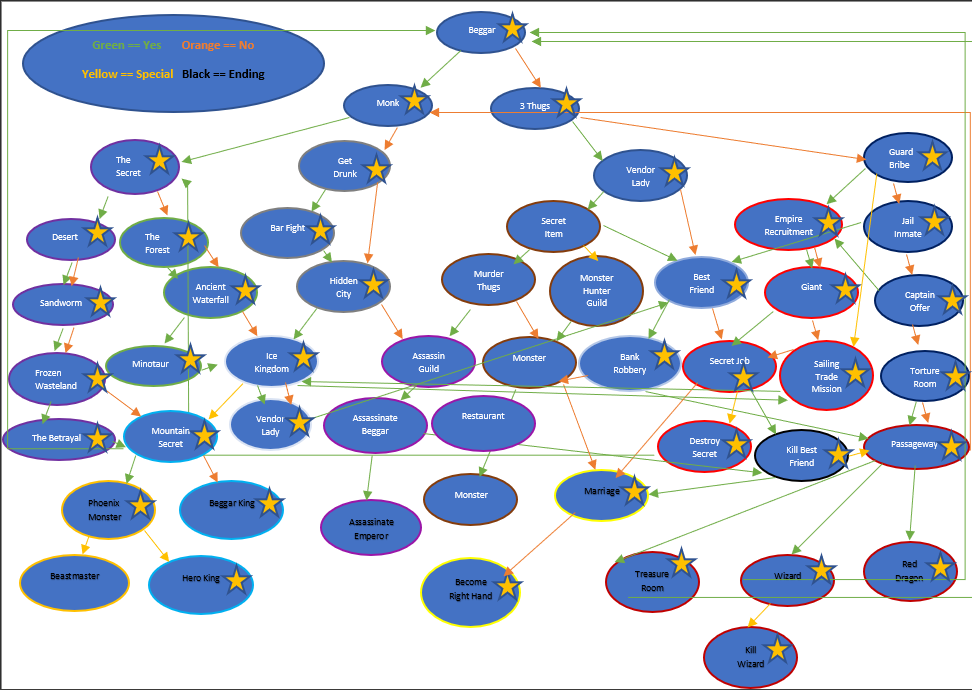
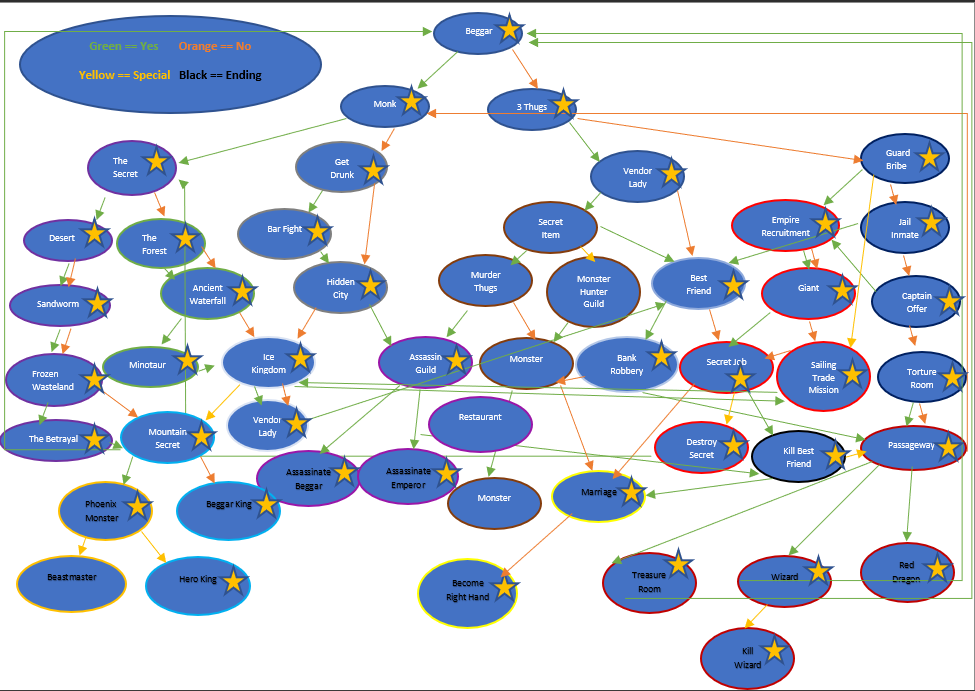
Added assassination storylines. 2 new endings.

Changed region(s): [[0.0, 0.0, 1.0, 1.0], [0.8333, 0.7304, 0.8642, 0.7609], [0.7407, 0.7304, 0.7716, 0.7609]]

diff --git a/main.py b/main.py
@@ -111,6 +111,8 @@ def adventure_game():
         leviathan = Monster('Leviathan', 999, 99, 200)
         phoenix = Monster('Phoenix', 350, 90, 200)
         minotaur = Monster('Minotaur', 150, 50, 85)
+        beggar = Monster('The Beggar', 50, 10, 20)
+        emperor = Monster('The Emperor', 50, 10, 30)
         
         # Function that 1. Checks if the monster has died, 2. Checks if person has died and then restarts/exits game
         def check_health(person):
@@ -492,13 +494,13 @@ jgs .-=-.    ) -.
 
                 # Check for a Royal Flush
                 if all(count == 1 for count in counts.values()):
-                    if hand[0][0] == '10' and hand[-1][0] == 'A':
+                    if 'A' in counts and 'K' in counts and 'Q' in counts and 'J' in counts and '10' in counts:
                         if all(card[1] == hand[0][1] for card in hand):
                             return 'Royal Flush'
 
                 # Check for a Straight Flush
                 if all(count == 1 for count in counts.values()):
-                    for i in range(1, len(hand)):
+                    for i in range(1, 5):
                         if int(hand[i][0]) - int(hand[i - 1][0]) != 1:
                             break
                         else:
@@ -698,7 +700,8 @@ jgs .-=-.    ) -.
                         # Check if the player has busted (total > 21)
                         if player_total > 21:
                             # If so, end the game and print a message
-                                print("Player has busted! Dealer wins.")
+                            print("Player has busted! Dealer wins.")
+                            break
                     # If the player decided to stand, break out of the loop
                     else:
                         break
@@ -816,16 +819,104 @@ jgs .-=-.    ) -.
                         f'{bulletpoint2}The number you entered is not a valid item in the vendor\'s inventory. Please try again.')
                     show_vendor_menu()
 
+            # The Assassin Guild
+            def assassins_guild():
+                drink_water_ans = input(f'{bulletpoint}As the old man shows you around the City of the Rising Sun, you are struck by the peaceful and serene atmosphere of the city. People from all walks of life can be seen going about their business, and there is a sense of harmony and cooperation among the various different groups.\nThe old man leads you through the winding streets of the city, pointing out the various landmarks and places of interest. He shows you the central market, where merchants from all over the world come to trade their goods. You also visit the city\'s library, which is filled with ancient books and scrolls that contain knowledge and wisdom from the past.\nAs you continue your tour, the old man brings you to the city\'s main square, where a large fountain stands in the center. People are gathered around the fountain, enjoying the cool, refreshing water on a hot day. The old man tells you that the water of the fountain has healing properties, and many people come to drink from it to cure their ailments.\nDo you take a drink of this water?')
+                if drink_water_ans.strip().lower() in yes:
+                    input(f'{bulletpoint}You were healed for 50 health points!')
+                    hero.health += 50
+                    menu()
+                enter_assassin_guild = input(f'{bulletpoint}After exploring the city for a while, the old man leads you to a secluded part of the city, where a mysterious sign stands in front of a hidden door. The sign bears the emblem of a hooded figure holding a curved blade. The old man tells you that this is the entrance to the Assassin Guild, a secretive organization of skilled assassins who serve as protectors.\nYou thank the old man for showing you around the city, and he tells you that he will be waiting for you if you ever need anything. You stand in front of the mysterious sign, considering whether or not you should enter the Assassin Guild and see what secrets it holds. The choice is yours, do you enter the building?\n')
+                if enter_assassin_guild.strip().lower() in yes:
+                    input(f'{bulletpoint2}Inside, you are greeted by a group of hooded figures who introduce themselves as members of the assassin guild. They explain that they are a secret society of trained assassins who use their skills and knowledge to serve the greater good.\nThe guild members offer to train you in the ancient ways of assassination, and you are intrigued by the offer. You decide to accept their offer and become a member of the guild.\n')
+                    input(f'...')
+                    philosophy_ans = input(f'{bulletpoint2}You spend the next few weeks training with the guild, learning the art of stealth, deception, and assassination. You undergo rigorous physical and mental training, and you master the use of a variety of weapons and tools.\nAs you progress in your training, you are taught the secrets of the guild and the philosophy that guides its members. You learn to balance the need for justice with the harsh realities of the world, and you become a skilled and deadly assassin. Do you want to go over the philosophy of the Assassin guild?')
+                    if philosophy_ans.strip().lower() in yes:
+                        input(f'{bulletpoint2}\n\n\n\n\n\n\n\n\n\n\nThe philosophy of the assassin guild is based on the principle of balance. The guild members believe that the world is a complex and dangerous place, and that there is a constant struggle between good and evil, order and chaos.\nThey believe that the guild has a responsibility to maintain the balance of power and prevent any one side from gaining too much control. To achieve this, the guild members use their skills and knowledge to eliminate threats and protect the innocent.\nThe guild has a complicated relationship with the ice kingdom and the Red Dragon Empire. On the one hand, the guild is neutral and does not take sides in political conflicts. On the other hand, the guild members are not afraid to intervene if they believe that the balance of power is being threatened.\nIn the case of the ice kingdom, the guild has a positive relationship with the queen and her people. The queen values the guild\'s skills and knowledge, and she often hires the guild members to carry out important missions. In return, the guild members protect the ice kingdom and its people from threats and dangers.\nIn the case of the Red Dragon Empire, the guild has a more complicated relationship. The emperor and his followers view the guild as a threat and a nuisance, and they often try to suppress the guild\'s activities. However, the guild members are not afraid to challenge the empire and its corrupt rulers, and they will not hesitate to strike if the balance of power is threatened.')
+                    input(
+                        f'{bulletpoint2} You recall the poem they taught you:\n\nThe assassin guild is a secret sect\nOf skilled and deadly powers,\nTheir mission is to keep the check\nIn a world of chaos all hours.\n\nThey move through the shadows unseen,\nSilent and deadly as the night,\nReady to strike at a moment\'s bright\nAnd eliminate any threat in sight.\n\nThey are masters of the blade and the bow,\nTrained in the arts of stealth and deception,\nThey are feared by their enemies\nAnd respected by those who know their profession.\n\nThe guild is a force for right,\nA protector of the innocent and the weak,\nThey will continue to fight\nFor balance and justice in a world that seeks.\n\n')
+                    new_kill = input(
+                        f'{bulletpoint}At the end of your training, you are given a mission to complete. You are to assassinate a...\nPlease enter your assassination target: ')
+                    while new_kill.strip().lower() == hero.name.strip().lower():
+                        new_kill = input(
+                            f'{bulletpoint2}You cannot kill yourself...\n{bulletpoint}Please enter a new assassination target: ')
+                    if new_kill.strip().lower() in ('beggar', 'the beggar'):
+                        input(
+                            f'{bulletpoint2}You are to assassinate a beggar who has been terrorizing the people of the Red Dragon Empire. You accept the mission.')
+                        input(f'{bulletpoint2}You are initially puzzled by the mission. You cannot understand why the guild would want to kill a homeless beggar, who poses no threat to anyone. You decide to question the guild leader about the mission.\nThe guild leader explains that the beggar is not what he seems. He is actually a spy for the ice kingdom, who has been gathering information about the empire\'s defenses and plans. The guild has been hired by the empire to eliminate the spy and prevent him from passing on his information.\nYou are uneasy about the mission, but you trust the guild leader and you decide to carry it out. You disguise yourself as a beggar and approach the beggar outside the castle gates. You strike up a conversation and gain his trust.\nWhen the time is right, you strike the beggar with a hidden blade.\n\n{bulletpoint}Press enter to roll 1 to 10 to determine if the kill was clean...\n')
+                        clean_kill_beggar = random.randint(1, 10)
+                        print(f'{bulletpoint2}You rolled a {clean_kill_beggar}.')
+                        if clean_kill_beggar >= 5:
+                            input(
+                                f'{bulletpoint2}The kill was clean. You dispose of the body and return to the guild, reporting the mission as completed.')
+                        else:
+                            add_health(beggar)
+                            battle(hero, beggar, 'hides behind wall',
+                                'curses at you', 'picks up a stick', 'throws a rock at you')
+                            random_health_gain = random.randint(10, 30)
+                            print(
+                                f'{bulletpoint2} You took some rest and gained {random_health_gain} health back.')
+                            hero.health += random_health_gain
+                            check_health(hero)
+                            add_money(25, 50)
+                            input(
+                                f'{bulletpoint2}The kill was messy. You dispose of the body and return to the guild, reporting the mission as completed.')
+                        menu()
+                        input(
+                            f'\n{bulletpoint2}You go back to strolling along the streets and see a different beggar...\nCongratulations, on reaching the end! Try to discover other secret endings and possibilities...')
+                        beggar()
+                        if 'beggar' in current_heir:
+                            current_heir = 'noble lady'
+                    elif new_kill.strip().lower() in ('emperor', 'the emperor'):
+                        input(
+                            f'{bulletpoint2}You are to assassinate a corrupt and evil ruler who has been terrorizing the people of a neighboring kingdom. You accept the mission.')
+                        input(f'{bulletpoint2}As a member of the assassin guild, you are given a mission to carry out. You are to kill the Red Dragon Emperor, the tyrannical ruler of the empire.\nYou are hesitant about the mission. The emperor is a powerful and dangerous enemy, and killing him will not be easy. You decide to discuss the mission with the other guild members and seek their advice.\nAfter much debate and deliberation, you and the other guild members agree on a plan. You will infiltrate the emperor\'s palace and gain his trust by pretending to be a loyal servant. Once you are close to the emperor, you will strike and kill him with a hidden blade.\nYou carry out the plan with precision and stealth. You gain the emperor\'s trust and become one of his most trusted servants. You bide your time and wait for the right moment to strike.\nOne night, as the emperor is sleeping, you sneak into his chambers and approach his bed. You draw your hidden blade and raise it high, ready to strike.\n\n{bulletpoint}Press enter to roll 1 to 10 to determine if the kill was clean...\n')
+                        clean_kill_emperor = random.randint(1, 10)
+                        print(f'{bulletpoint2}You rolled a {clean_kill_emperor}.')
+                        print(f'')
+                        if clean_kill_emperor >= 5:
+                            input(
+                                f'{bulletpoint2}The kill was clean. You dispose of the body and return to the guild, reporting the mission as completed.')
+                        else:
+                            add_health(emperor)
+                            battle(hero, emperor, 'raises shield',
+                                'groans in pain', 'calls guards over', 'uses sharp end of the shield')
+                            random_health_gain = random.randint(10, 30)
+                            print(
+                                f'{bulletpoint2} You took some rest and gained {random_health_gain} health back.')
+                            hero.health += random_health_gain
+                            check_health(hero)
+                            add_money(25, 50)
+                            input(
+                                f'{bulletpoint2}The kill was messy. You dispose of the body and return to the guild, reporting the mission as completed.')
+                        menu()
+                        input(
+                            f'\n{bulletpoint2}Congratulations, on reaching the end! Try to discover other secret endings and possibilities...')
+                        beggar()
+                    else:
+                        input(
+                            f'{bulletpoint2}You are to assassinate {new_kill}. You accept the mission.')
+                        input(f'{bulletpoint2}The night was dark and cold, the perfect conditions for an assassination. You crept through the shadows, senses heightened and your heart pounding with anticipation.\nYour target was {new_kill}.You had studied {new_kill}\'s routine and habits, and you knew exactly when and where they would be most vulnerable.\nYou made your way to the designated spot, a secluded alleyway near their residence. Your waited in the shadows, your weapon of choice at the ready.\nAs {new_kill} walked past, you stepped out of the darkness and struck. Your blade sliced through the air with deadly precision, finding its mark in {new_kill}\'s throat. {new_kill} gasped and clutched at their neck, but it was too late. You watched as the life drained from their eyes, and then disappeared into the night, leaving no trace of your presence behind.\nThe kill was clean and efficient, a testament to your skills as an assassin. you would be rewarded for the successful mission, and you would be ready for the next one. That was the life of an assassin, a life of danger and deception, but one that you embraced wholeheartedly.\n')
+                        add_money(25, 50)
+                        menu()
+                        input(
+                            f'\n{bulletpoint2}Congratulations, on reaching the end! Try to discover other secret endings and possibilities...')
+                        beggar()
+
+                else:
+                    pass
+                    #the_restaurant()
+
             # The Hidden City
             def hidden_city():
                 city_ans = input(f'{bulletpoint}As you wander through the streets of the city called “The City of the Rising Sun”, you come across a small shop selling trinkets and souvenirs. You decide to take a look and see if there is anything interesting.\nAs you browse the shelves, a friendly old man approaches you and says that this city is a safe haven for those who seek refuge from the troubles of the outside world. It is hidden from the eyes of the Red Dragon Empire and the ice kingdom, and it is a place of harmony. Do you ask him more about the Red Dragon Empire and the Ice Kingdom?')
                 if city_ans.strip().lower() in yes:
                     city_ans2 = input(f'{bulletpoint}The Red Dragon Empire is a vast and powerful kingdom ruled by a cruel and tyrannical emperor. It is a land of war and conquest, where the strong prey on the weak and the weak must fight to survive. The ice kingdom, on the other hand, is a land of mystery and magic. It is ruled by a wise and benevolent queen, who uses her powers to protect her people and keep the peace. Do you want to hear more?')
                     if city_ans2.strip().lower() in yes:
-                        city_ans3 = input(f'{bulletpoint2}The old man nods and begins to tell you the history of the Red Dragon Empire. He explains that, long ago, the empire was ruled by a peaceful and benevolent ruler who was loved and respected by his people. But one day, a cruel and ambitious emperor overthrew the peaceful ruler and seized control of the empire.\nUnder the emperor\'s rule, the Red Dragon Empire became a land of conquest and aggression. The emperor sought to expand his power and territory, and he set his sights on the Ice Kingdom.\nBut the Ice Kingdom was a land of magic, and its queen was a powerful sorceress. She used her powers to protect her kingdom and repel the emperor\'s armies. Despite his best efforts, the emperor was unable to conquer the Ice Kingdom, and the two kingdoms have been in a state of cold war ever since.\nThe old man concludes his story by saying that the City of the Rising Sun is a safe haven for those who seek refuge from the conflicts and dangers of the outside world. He offers to show you around the city, if you are interested. What do you say?\n')
+                        city_ans3 = input(f'{bulletpoint2}The old man nods and begins to tell you the history of the Red Dragon Empire. He explains that, long ago, the empire was ruled by a peaceful and benevolent ruler who was loved and respected by his people. But one day, a cruel and ambitious emperor overthrew the peaceful ruler and seized control of the empire.\nUnder the emperor\'s rule, the Red Dragon Empire became a land of conquest and aggression. The emperor sought to expand his power and territory, and he set his sights on the Ice Kingdom.\nBut the Ice Kingdom was a land of magic, and its queen was a powerful sorceress. She used her powers to protect her kingdom and repel the emperor\'s armies. Despite his best efforts, the emperor was unable to conquer the Ice Kingdom, and the two kingdoms have been in a state of cold war ever since.\n{bulletpoint}The old man concludes his story by saying that the City of the Rising Sun is a safe haven for those who seek refuge from the conflicts and dangers of the outside world. He offers to show you around the city, if you are interested. What do you say?\n')
                         if city_ans3.strip().lower() in yes:
                             menu()
-                            #assassins_guild()
+                            assassins_guild()
                         else:
                             menu()
                             ice_kingdom()
@@ -834,12 +925,12 @@ jgs .-=-.    ) -.
                         ice_kingdom()
                 else:
                     menu()
-                    poker_ans = input(f'{bulletpoint}A customer nearby walks up to you and asks if you would like to play poker?')
+                    poker_ans = input(f'{bulletpoint}A customer nearby walks up to you and asks if you would like to play Doker?')
                     while poker_ans.strip().lower() in yes:
                         poker()
-                        poker_ans = input(f'{bulletpoint}Play another hand of poker?')
+                        poker_ans = input(f'{bulletpoint}Play another hand of Doker?')
                     else:
-                        blackjack_ans = input(f'{bulletpoint}How about blackjack? The goal is to get close to 21. "Hit" will draw another card, while "Stand" will stop drawing. ')
+                        blackjack_ans = input(f'{bulletpoint}How about Blackjack? The goal is to get as close to 21 as possible. "Hit" will draw another card, while "Stand" will stop drawing. ')
                         while blackjack_ans.strip().lower() in yes:
                             blackjack()
                             blackjack_ans = input(
@@ -851,13 +942,13 @@ jgs .-=-.    ) -.
             #Get Drunk
             def get_drunk():
                 drink_ans = input(
-                    f'{bulletpoint}You are sitting at a table in a local tavern. The tavern bartender asks you if you would like a drink. Do you take it?')
+                    f'{bulletpoint}You are sitting at a table in a local tavern. The tavern bartender asks you if you would like a drink. Do you take it?\n')
                 if drink_ans.lower().strip() in yes:
                     first_drink_ans = input(
-                        f'{bulletpoint}After the first drink, you feel a warm, relaxed sensation in your chest and limbs, and your inhibitions may start to loosen. You find yourself smiling...\nThe bartender asks if you would like second drink, what do you say?')
+                        f'{bulletpoint}After the first drink, you feel a warm, relaxed sensation in your chest and limbs, and your inhibitions may start to loosen. You find yourself smiling...\nThe bartender asks if you would like a second drink, what do you say?')
                     if first_drink_ans.lower().strip() in yes:
                         second_drink_ans = input(
-                            f'{bulletpoint}You feel slightly lightheaded and dizzy, and your movements may become slightly more exaggerated and uncoordinated. Suddenly the bartender says they have a special drink for you. It\'s a rare and potent spirit from the Ice kingdom. Are you brave enough to try it')
+                            f'{bulletpoint}You feel slightly lightheaded and dizzy, and your movements may become slightly more exaggerated and uncoordinated. Suddenly the bartender says they have a special drink for you. It\'s a rare and potent spirit from the Ice kingdom. Are you brave enough to try it?\n')
                         if second_drink_ans.lower().strip() in yes:
                             input(
                                 f'{bulletpoint}You are tempted by the offer. You have always been curious about the ice kingdom and its exotic liquors. After much hesitation, you decide to take the third drink. You raise the glass to your lips and take a sip. The liquid is fiery and sweet, and it burns all the way down your throat\nAs you drink, you notice that the other customers in the tavern are starting to get rowdy. Suddenly, one of them bumps into you and spills your drink.\nBefore you know it, you are locked in a fierce bar fight with the other customer. You throw punches and dodge blows, feeling reckless and invincible.\nBut your drunken state makes you slow and clumsy, and soon you are on the receiving end of a beating. You stumble and fall to the ground, feeling dazed and bruised.\nJust as you are about to black out, you hear a loud noise and feel yourself being lifted off the ground. You open your eyes and see that you are being carried away on a cart by a group of good samaritans.')
